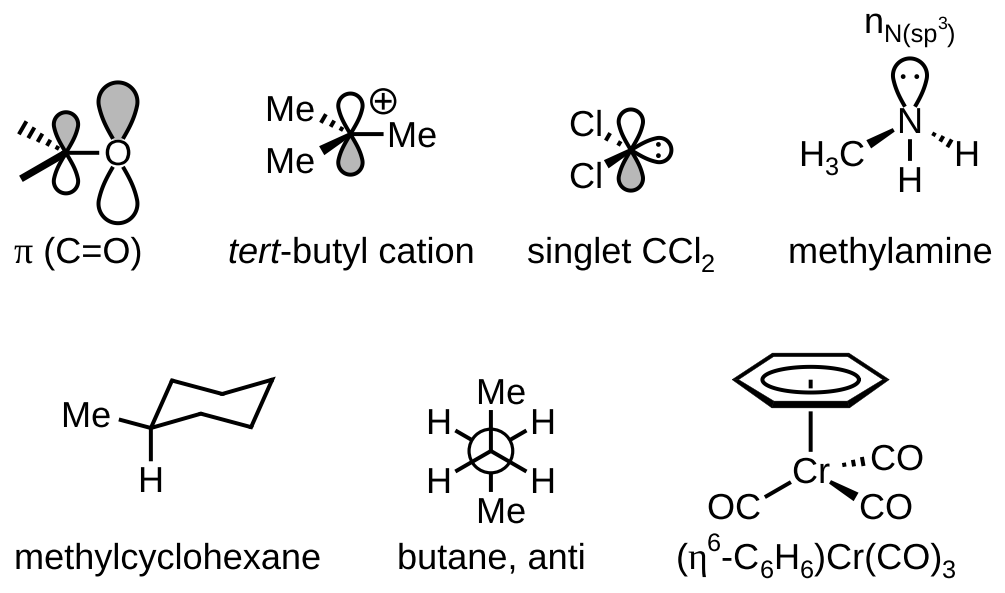
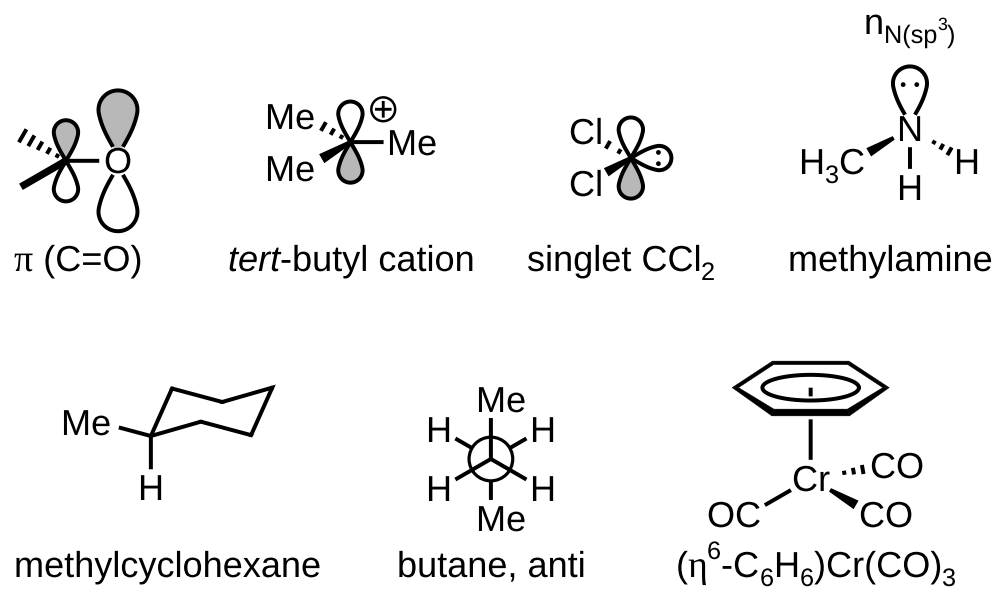
bondline 1.1.0: orbital names 5 pt clear of their lobes

diff --git a/skills/bondline/scripts/bondline/_scene_finish.py b/skills/bondline/scripts/bondline/_scene_finish.py
@@ -331,12 +331,12 @@ class _SceneFinish:
         lab = a.drawn and not a.hidden and a._g
         off = self._lobe_tip(a, u, A, size) if (lab and kind != "s") else 0.0
         reach = 0.42 * st.bond * size if kind == "s" else off + self.LOBE_L * st.bond * size
-        q = A + u * (reach + 0.3 * st.size)
+        q = A + u * (reach + 0.5 * st.size)
         ha = "left" if u[0] > 0.3 else "right" if u[0] < -0.3 else "center"
         va = "bottom" if u[1] > 0.3 else "top" if u[1] < -0.3 else "center"
-        col = ex[7] if len(ex) > 7 else None; T = A + u * reach; need = 0.3 * st.size
+        col = ex[7] if len(ex) > 7 else None; T = A + u * reach; need = 0.5 * st.size
         g = self._rich_geo(ex[8], q[0], q[1], st.tsize, ha, va, col)
-        for _ in range(3):                                 # its ink (a subscript's descent too) 3 pt clear of the tip
+        for _ in range(3):                                 # its ink (a subscript's descent too) 5 pt clear of the tip
             ext = [self.F.path(t, x, y, sz, i, bd).get_extents() for t, x, y, sz, i, bd in g["runs"] if t.strip() and not self.F.missing(t)]
             if not ext: break
             x0, y0 = min(e.x0 for e in ext), min(e.y0 for e in ext); x1, y1 = max(e.x1 for e in ext), max(e.y1 for e in ext)

diff --git a/skills/bondline/CHANGES.md b/skills/bondline/CHANGES.md
@@ -19,7 +19,7 @@
   L ligands, a bonded H beside the H of H₃PO₄). Each run of text also starts on a whole pixel, so a letter is drawn
   with identical pixels wherever it stands.
 - An orbital lobe drawn on a labelled atom (the p orbital of a C=O's oxygen) is shaded right up to the letter. A thin
-  white line used to separate the shading from the letter. An orbital's name (`label=`) stands 3 pt clear of its
+  white line used to separate the shading from the letter. An orbital's name (`label=`) stands 5 pt clear of its
   lobe instead of 1.5 pt.
 - Rows of a scheme (`flow()`, `row(under=)`) sit 1.3 BU apart instead of 0.9, so captions no longer crowd the
   conditions of the row below.
